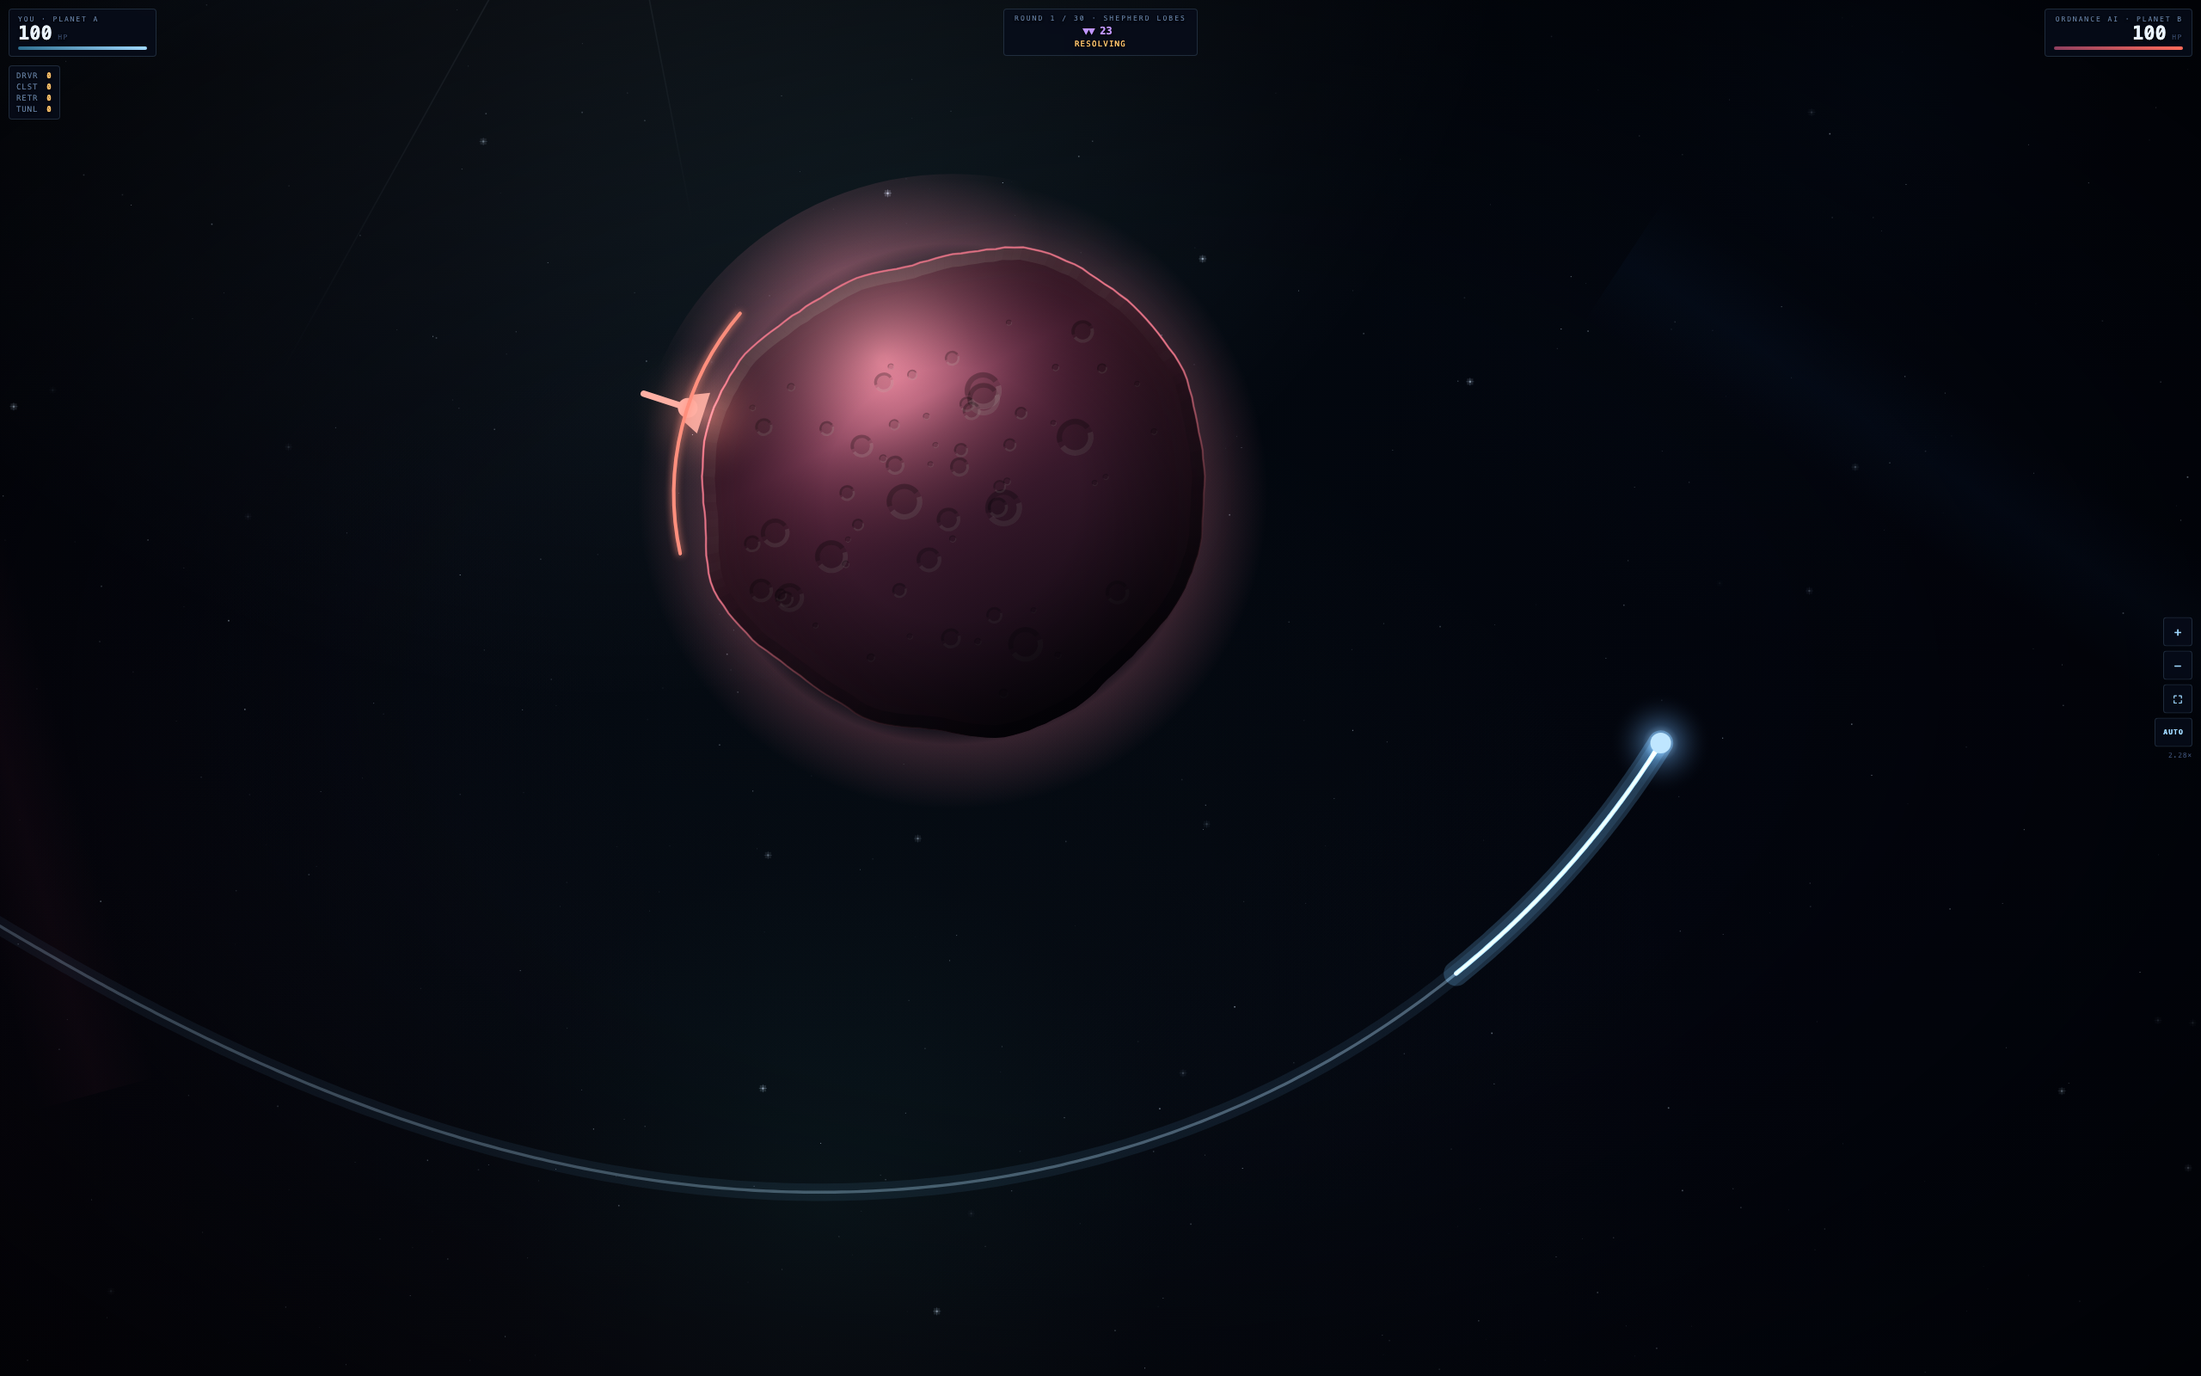
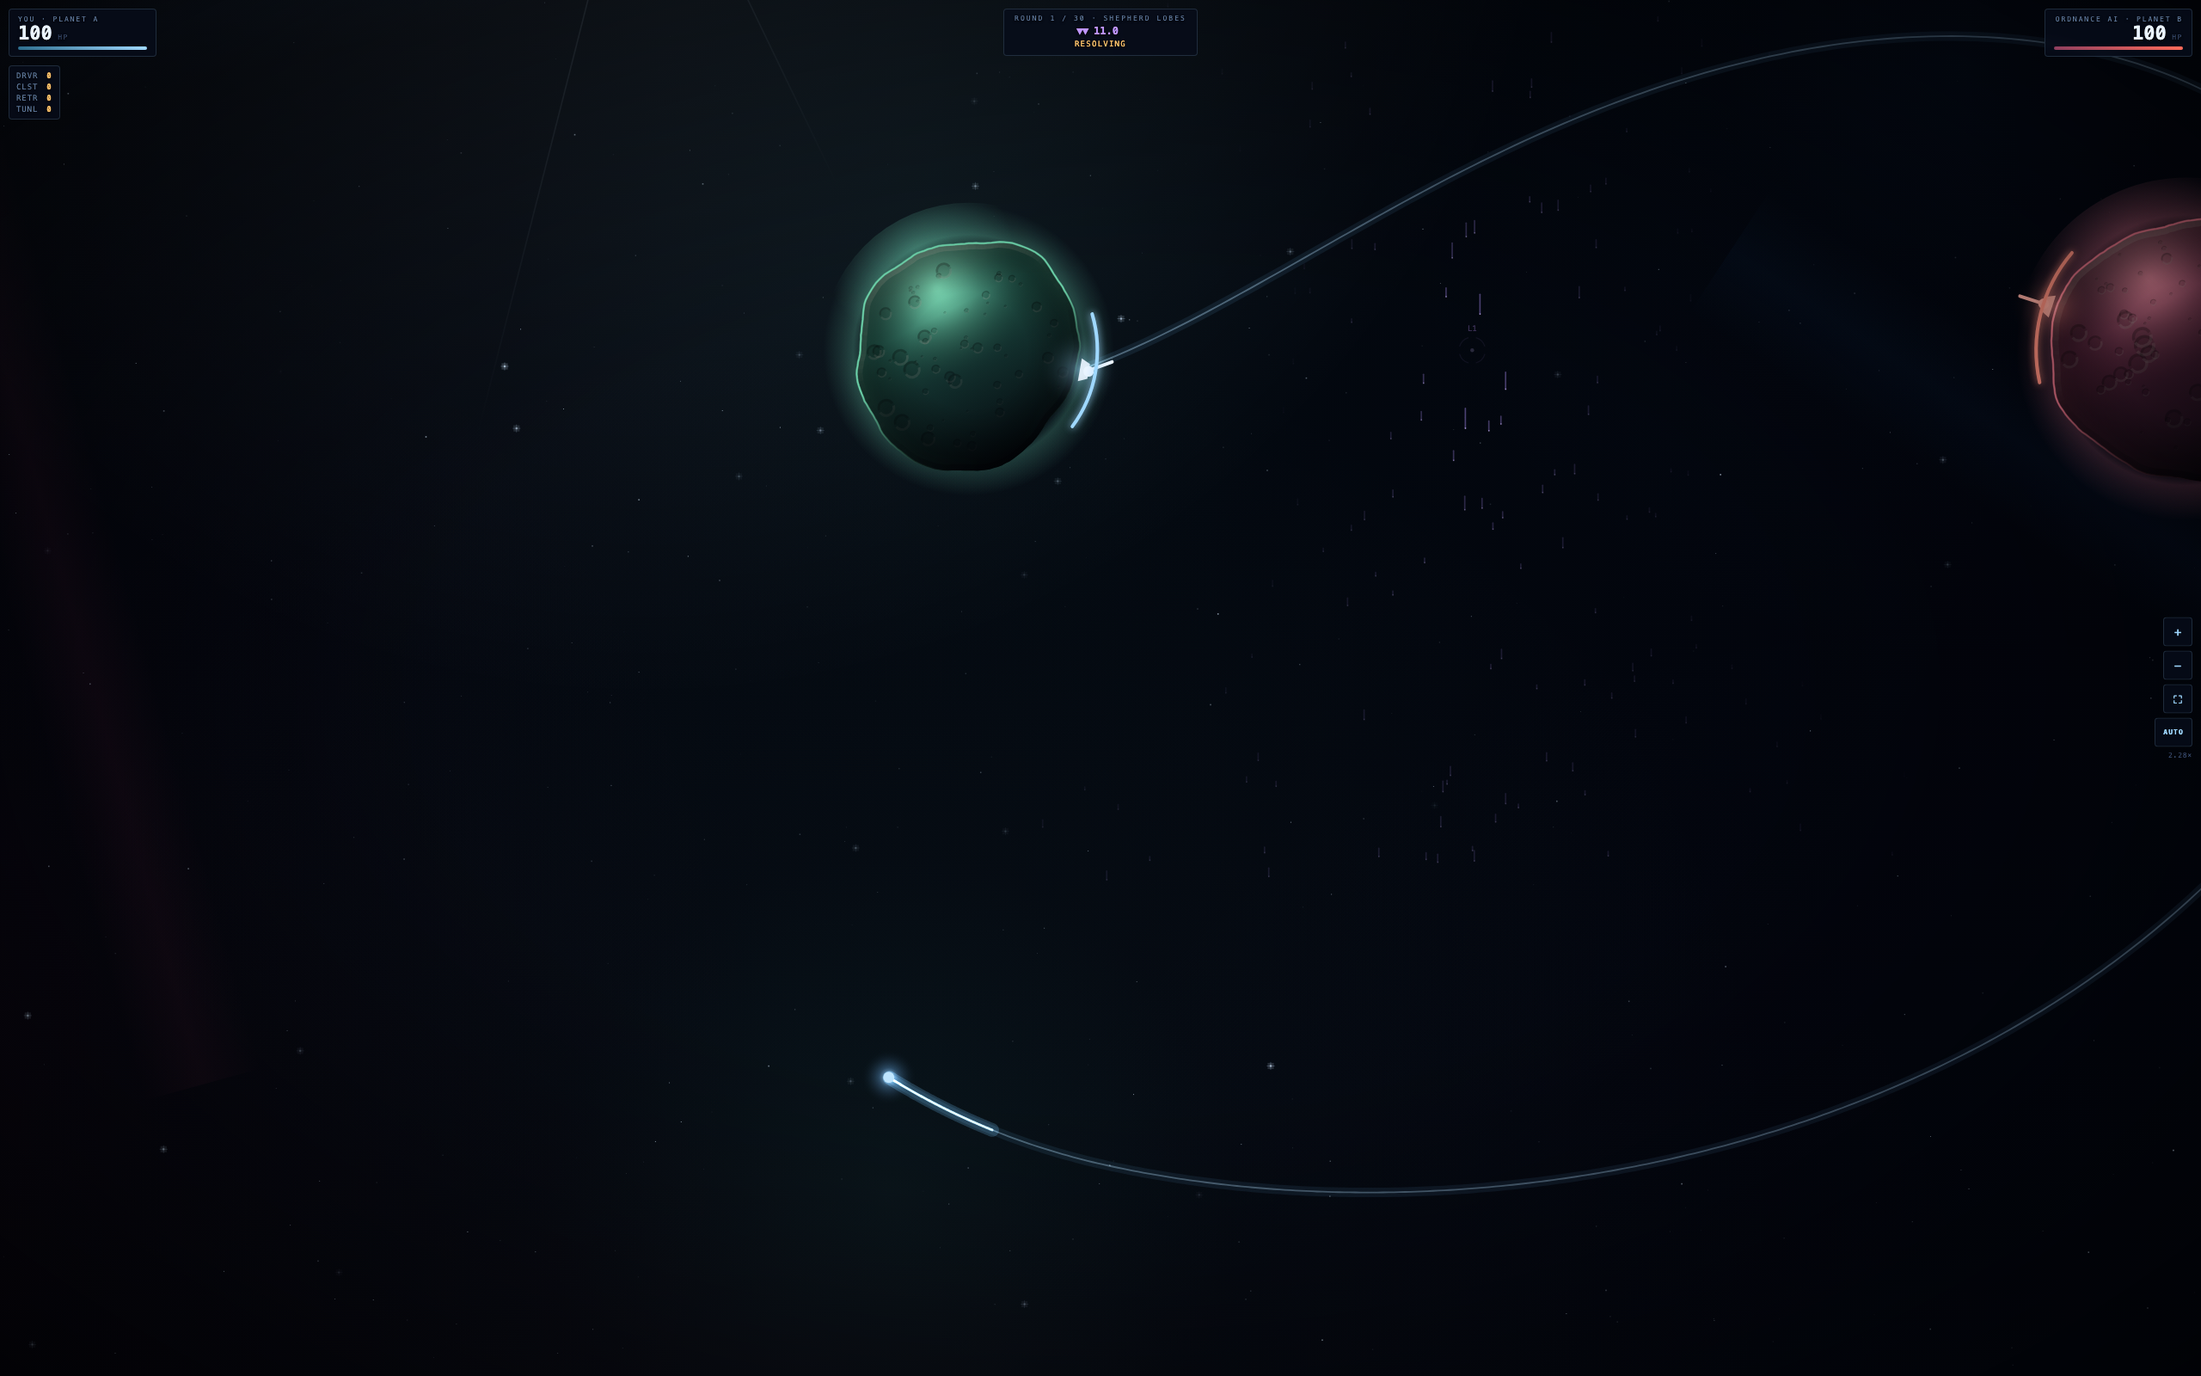
ROCHE: the physics now tell the truth. Three lies removed after playtest feedback that the physics felt wrong. (1) The per-weapon gravity multiplier is gone — every shell now falls identically, as vacuum demands; weight moved into the gun, where it belongs physically: a fixed launcher impulse gives 

diff --git a/games/roche.html b/games/roche.html
@@ -356,21 +356,34 @@ function mix(a,b){return fnv(String(a>>>0)+':'+String(b>>>0));}
 
 /* ============================================================ 1. constants */
 var NST=180;                       /* radial terrain stations per planet      */
-var GK=260;                        /* surface gravity per unit mass           */
-var DT=1/240, MAXT=40, MOVE_T=0.6; /* fixed step, shell cap, move window      */
-var WIND_MAX=30, WIND_G_REF=10;    /* ion wind: bites where gravity let go    */
+/* The whole sim runs on a contracted clock: k=1.35. Accelerations carry k^2
+   and launch speeds carry k, which leaves every trajectory's SHAPE identical
+   and makes the flights 26% shorter. Nothing else in the model knows. */
+var TK=1.35;
+var GK=474;                        /* surface gravity per unit mass (260*k^2) */
+var DT=1/240, MAXT=60, MOVE_T=0.45;/* fixed step, shell cap, move window.
+   The cap is generous on purpose: an orbit that means to come down needs two
+   or three revolutions for A's pull to precess its periapsis into B's rock.
+   Direct shots are unaffected - they end when they hit. */
+var WIND_MAX=14.6, WIND_G_REF=5.5; /* ion wind: only bites at the L1 saddle   */
+var WIND_DV=68;                    /* per-shell delta-v budget: it perturbs a
+                                      shot, it can never reroute one          */
 var MAX_HP=100, MAX_ROUNDS=30, MOVE_MAX=3;
 var SLOPE_DEG=65;
 var TANK_R=15, TANK_H=9, SHELL_R=5, KESSLER_R=22;
 var DIG_MAX=64;                    /* deepest a crater can cut, from base     */
 var SAMPLE=5;                      /* trajectory sample stride                */
 
+/* Everything falls the same - the gun is what differs. The launcher delivers a
+   fixed impulse, so a heavy shell leaves the muzzle slower for the same power
+   (sm) and is pushed around less by the plasma wind (wm). No shell has its own
+   private gravity. */
 var WEAPONS={
-  slug:    {slug:'slug',    name:'SLUG',        ab:'SLUG', dmg:26, r:58, gm:1.00, wm:1.00, inf:true},
-  driver:  {slug:'driver',  name:'MASS DRIVER', ab:'DRVR', dmg:46, r:84, gm:1.28, wm:0.26},
-  cluster: {slug:'cluster', name:'CLUSTER',     ab:'CLST', dmg:13, r:44, gm:1.00, wm:1.25, split:5},
-  retro:   {slug:'retro',   name:'RETRO',       ab:'RETR', dmg:32, r:60, gm:1.00, wm:0.80, retro:true},
-  tunneler:{slug:'tunneler',name:'TUNNELER',    ab:'TUNL', dmg:32, r:52, gm:1.06, wm:0.75, drill:56}
+  slug:    {slug:'slug',    name:'SLUG',        ab:'SLUG', dmg:26, r:58, sm:1.00, wm:1.00, inf:true},
+  driver:  {slug:'driver',  name:'MASS DRIVER', ab:'DRVR', dmg:54, r:90, sm:0.84, wm:0.26},
+  cluster: {slug:'cluster', name:'CLUSTER',     ab:'CLST', dmg:14, r:44, sm:1.05, wm:1.25, split:5},
+  retro:   {slug:'retro',   name:'RETRO',       ab:'RETR', dmg:32, r:60, sm:1.00, wm:0.80, retro:true},
+  tunneler:{slug:'tunneler',name:'TUNNELER',    ab:'TUNL', dmg:34, r:54, sm:0.93, wm:0.75, drill:56}
 };
 var WORDER=['slug','driver','cluster','retro','tunneler'];
 var DROPPABLE=['driver','cluster','retro','tunneler'];
@@ -520,7 +533,8 @@ function depthIn(w,p,x,y){
   if(d>planetR(map,p)*1.35)return -1e9;
   return radAtAngle(w,p,Math.atan2(dy,dx))-d;
 }
-function powerToSpeed(p){return 95+p*4.55;}
+function powerToSpeed(p){return 128+p*6.14;}      /* (95+p*4.55)*k */
+function powerOfSpeed(v){return (v-128)/6.14;}
 
 /* ============================================================ 4. world */
 function zeros(){var a=new Array(NST),i;for(i=0;i<NST;i++)a[i]=0;return a;}
@@ -625,8 +639,8 @@ function resolveRound(world,orders,roundSeed){
     if(ws!=='slug'&&!(w.tanks[seat].inv[ws]>0))ws='slug';
     if(ws!=='slug')w.tanks[seat].inv[ws]--;
     var ang=clamp(od.a,10,170), pw=clamp(od.p,15,100);
-    var dir=aimVec(w,seat,ang), sp=powerToSpeed(pw), p0=tpos(seat,0);
-    var sh={seat:seat,w:ws,root:true,
+    var dir=aimVec(w,seat,ang), sp=powerToSpeed(pw)*WEAPONS[ws].sm, p0=tpos(seat,0);
+    var sh={seat:seat,w:ws,root:true,dv:0,
       x:p0.x+dir.x*22,y:p0.y+dir.y*22,vx:dir.x*sp,vy:dir.y*sp,
       alive:true,crossed:false,dom0:dominant(map,p0.x,p0.y),drill:0,born:0,idx:shells.length,
       wrap:0,lastA:0,maxRev:0,wrapO:0,lastO:0,maxRevO:0,back:0,
@@ -743,14 +757,18 @@ function resolveRound(world,orders,roundSeed){
       if(!s.alive)continue;
       var WD=WEAPONS[s.w];
       if(s.drill>0){
-        var sp2=hyp(s.vx,s.vy)||1, ux=s.vx/sp2, uy=s.vy/sp2, adv=190*DT;
+        var sp2=hyp(s.vx,s.vy)||1, ux=s.vx/sp2, uy=s.vy/sp2, adv=256*DT;
         s.x+=ux*adv; s.y+=uy*adv; s.drill-=adv;
         if(s.drill<=0){detonate(s,s.x,s.y,-1,t,'drill');continue;}
       }else{
         accAt(map,s.x,s.y,acc);
-        var wf=windFactor(map,s.x,s.y)*WD.wm;
-        s.vx+=acc.x*WD.gm*DT;
-        s.vy+=(acc.y*WD.gm+wind*wf)*DT;
+        var wa=0;
+        if(s.dv<WIND_DV){
+          wa=wind*windFactor(map,s.x,s.y)*WD.wm;
+          s.dv+=Math.abs(wa)*DT;
+        }
+        s.vx+=acc.x*DT;
+        s.vy+=(acc.y+wa)*DT;
         s.x+=s.vx*DT; s.y+=s.vy*DT;
       }
       if(step%SAMPLE===0)s.pts.push(s.x,s.y);
@@ -778,8 +796,10 @@ function resolveRound(world,orders,roundSeed){
           var vn=hyp(s.vx,s.vy)||1, px2=-s.vy/vn, py2=s.vx/vn;
           for(j=0;j<WD.split;j++){
             var off=(j-(WD.split-1)/2);
-            var b={seat:s.seat,w:'cluster',root:false,x:s.x+px2*off*5,y:s.y+py2*off*5,
-                   vx:s.vx+px2*off*17,vy:s.vy+py2*off*17,alive:true,crossed:true,dom0:dm,drill:0,
+            /* the bus throws them apart mechanically - it no longer relies on
+               a wind strong enough to bend a trajectory */
+            var b={seat:s.seat,w:'cluster',root:false,dv:s.dv,x:s.x+px2*off*6,y:s.y+py2*off*6,
+                   vx:s.vx+px2*off*30,vy:s.vy+py2*off*30,alive:true,crossed:true,dom0:dm,drill:0,
                    born:t,idx:tl.shells.length,wrap:s.wrap,lastA:s.lastA,maxRev:s.maxRev,
                    wrapO:s.wrapO,lastO:s.lastO,maxRevO:s.maxRevO,back:s.back,
                    pts:[s.x+px2*off*5,s.y+py2*off*5]};
@@ -890,7 +910,7 @@ function resolveRound(world,orders,roundSeed){
   else if(h1<=0){over=true;winner=0;}
   else if(h0<=0){over=true;winner=1;}
   else if(w.round>MAX_ROUNDS){over=true;if(h0>h1)winner=0;else if(h1>h0)winner=1;else draw=true;}
-  tl.dur=t+1.4;
+  tl.dur=t+1.0;
   return {world:w,tl:tl,stats:stats,over:over,winner:winner,draw:draw};
 }
 
@@ -899,8 +919,8 @@ function resolveRound(world,orders,roundSeed){
    SAME field equations the resolver uses. No closed-form shortcut exists here. */
 function probeShot(w,seat,wep,ang,pow,dt,wind,maxT){
   var map=MAPS[w.mapId], WD=WEAPONS[wep]||WEAPONS.slug;
-  var dir=aimVec(w,seat,ang), sp=powerToSpeed(pow), o=tankPt(w,seat);
-  var x=o.x+dir.x*22, y=o.y+dir.y*22, vx=dir.x*sp, vy=dir.y*sp;
+  var dir=aimVec(w,seat,ang), sp=powerToSpeed(pow)*WD.sm, o=tankPt(w,seat);
+  var x=o.x+dir.x*22, y=o.y+dir.y*22, vx=dir.x*sp, vy=dir.y*sp, dv=0;
   var tp=tankPt(w,1-seat), tx=tp.x, ty=tp.y;
   var ecx=planetCX(map,1-seat), ocx=planetCX(map,seat);
   var t=0, closest=1e9, acc={x:0,y:0}, dom0=dominant(map,x,y), crossed=false;
@@ -909,9 +929,10 @@ function probeShot(w,seat,wep,ang,pow,dt,wind,maxT){
   var bound=map.dist*1.9, MT=maxT||MAXT;
   while(t<MT){
     accAt(map,x,y,acc);
-    var wf=windFactor(map,x,y)*WD.wm;
-    vx+=acc.x*WD.gm*dt;
-    vy+=(acc.y*WD.gm+wind*wf)*dt;
+    var wa=0;
+    if(dv<WIND_DV){ wa=wind*windFactor(map,x,y)*WD.wm; dv+=Math.abs(wa)*dt; }
+    vx+=acc.x*dt;
+    vy+=(acc.y+wa)*dt;
     x+=vx*dt; y+=vy*dt; t+=dt;
     var na=Math.atan2(y,x-ecx);
     wrap+=angNorm(na-lastA); lastA=na;
@@ -949,12 +970,12 @@ function solveShot(w,seat,wep,wind){
   var bestA=90,bestP=70,bestC=1e9,a,p,r,c;
   for(a=14;a<=166;a+=4){
     for(p=20;p<=100;p+=4){
-      r=probeShot(w,seat,wep,a,p,1/50,wind,30);
+      r=probeShot(w,seat,wep,a,p,1/50,wind,24);
       c=candCost(w,seat,r);
       if(c<bestC){bestC=c;bestA=a;bestP=p;}
     }
   }
-  var passes=[{d:3,st:1,dt:1/120,mt:34},{d:1,st:0.34,dt:1/240,mt:MAXT}];
+  var passes=[{d:3,st:1,dt:1/120,mt:28},{d:1,st:0.34,dt:1/240,mt:32}];
   for(var q=0;q<passes.length;q++){
     var P=passes[q],cA=bestA,cP=bestP;
     bestC=1e9;
@@ -1111,15 +1132,20 @@ function cpuOrder(w,seat,cpu,wind){
     if(orb&&orb.closest<Math.max(150,sol.cost*1.4)){
       var goal=seat===0?'B':'A';
       var d=orbDescend(w,seat,wind,orb.a,orb.p,goal);
-      if(d&&d.r.fate===goal&&isOrbital(d.r)&&d.r.closest<170){
+      /* only worth the flight if it actually threatens - a 60-second orbit
+         that lands two craters away teaches nothing */
+      if(d&&d.r.fate===goal&&isOrbital(d.r)&&d.r.closest<60){
         wep='slug'; sol={a:Math.round(d.a*10)/10,p:Math.round(d.p*10)/10,cost:d.r.closest};
         orbTaken=true; cpu.orbital++;
       }
     }
   }
 
-  var err=cpu.err*(orbTaken?0.28:1);
-  if(cpu.enemyStill>=2)err*=0.6;
+  /* a walked direct shot carries the CPU's usual error; a computed orbit does
+     not - the trajectory is chaotic, so a degree of jitter would simply throw
+     it away, and a miss by two thousand units teaches the player nothing */
+  var err=cpu.err*(orbTaken?0.06:1);
+  if(cpu.enemyStill>=2)err*=0.5;
   var a=sol.a+(rng()*2-1)*err;
   var p=sol.p+(rng()*2-1)*err*0.45;
   cpu.firedLast=true;
@@ -1435,6 +1461,7 @@ function hexRGB(h){
   return ((n>>16)&255)+','+((n>>8)&255)+','+(n&255);
 }
 var stars=[],neb=[],fils=[],speck=[[],[]],parts=[],rings=[],floaters=[],glows=[],streaks=[],flares=[];
+var motes=[],moteBox={x:0,w:1,h:1};
 function makeSky(seed,mapId){
   var map=MAPS[mapId], r=mulberry32((seed>>>0)^0x51F0),i,p;
   stars=[];
@@ -1454,6 +1481,14 @@ function makeSky(seed,mapId){
     fils.push({x:r()*1.4-0.2,y:r()*1.4-0.2,r:r()*Math.PI,l:0.5+r()*0.9,t:0.012+r()*0.03,
       c:c2[0],a:c2[1]*(0.30+r()*0.35)});
   }
+  /* the ion wind made visible: plasma motes drifting only where windFactor is
+     actually significant, i.e. the L1 saddle. Curvature gets a visible cause. */
+  var map2=MAPS[mapId], lx=l1x(map2);
+  moteBox={x:lx,w:map2.dist*0.36,h:map2.dist*0.44};
+  motes=[];
+  for(i=0;i<230;i++)
+    motes.push({x:lx+(r()*2-1)*moteBox.w,y:(r()*2-1)*moteBox.h,
+                s:0.45+r()*0.95,ph:r()*TAU,f:0});
   for(p=0;p<2;p++){
     speck[p]=[];
     var n=Math.round(52+r()*26);
@@ -1813,8 +1848,40 @@ function drawPods(){
     }
   }
 }
+function stepMotes(dt){
+  if(!G.world||!motes.length)return;
+  var map=MAPS[G.world.mapId], wv=G.tl?G.tl.wind:G.wind, i;
+  for(i=0;i<motes.length;i++){
+    var mo=motes[i];
+    mo.f=windFactor(map,mo.x,mo.y);
+    mo.y+=wv*mo.f*6*mo.s*dt;
+    mo.x+=Math.sin(G.fxT*0.5+mo.ph)*7*mo.f*dt;
+    if(mo.y>moteBox.h)mo.y-=moteBox.h*2;
+    else if(mo.y<-moteBox.h)mo.y+=moteBox.h*2;
+  }
+}
+function drawMotes(){
+  if(!G.world||!motes.length)return;
+  var wv=G.tl?G.tl.wind:G.wind, dir=wv<0?-1:1, i;
+  if(Math.abs(wv)<0.4)return;
+  X.save(); X.globalCompositeOperation='lighter'; X.lineCap='round';
+  for(i=0;i<motes.length;i++){
+    var mo=motes[i], a=clamp((mo.f-0.11)*1.7,0,1);
+    if(a<=0.02)continue;
+    var px=wx(mo.x),py=wy(mo.y);
+    if(px<-40||px>VW+40||py<-40||py>VH+40)continue;
+    var L=Math.max(2,Math.abs(wv)*mo.f*mo.s*0.9*cam.s*6);
+    X.strokeStyle='rgba(186,150,255,'+(a*0.48).toFixed(3)+')';
+    X.lineWidth=Math.max(0.9,1.5*cam.s*2);
+    X.beginPath(); X.moveTo(px,py); X.lineTo(px,py+dir*L); X.stroke();
+    X.fillStyle='rgba(226,206,255,'+(a*0.55).toFixed(3)+')';
+    X.fillRect(px-0.7,py+dir*L-0.7,1.6,1.6);
+  }
+  X.restore();
+}
 function stepFx(dt){
   var i,p,map=G.world?MAPS[G.world.mapId]:null,acc={x:0,y:0};
+  stepMotes(dt);
   for(i=parts.length-1;i>=0;i--){
     p=parts[i]; p.l-=dt;
     if(p.l<=0){parts.splice(i,1);continue;}
@@ -1883,14 +1950,14 @@ function drawFx(){
 function drawPredictor(){
   if(G.phase!=='order'||G.orderKind!=='fire'||!G.world)return;
   var w=G.world, seat=G.mySeat, map=MAPS[w.mapId];
-  var WD=WEAPONS[G.wep], dir=aimVec(w,seat,G.ang), sp=powerToSpeed(G.pow);
+  var WD=WEAPONS[G.wep], dir=aimVec(w,seat,G.ang), sp=powerToSpeed(G.pow)*WD.sm;
   var o=tankPt(w,seat);
   var x=o.x+dir.x*22,y=o.y+dir.y*22,vx=dir.x*sp,vy=dir.y*sp,dt=1/90,acc={x:0,y:0};
   X.beginPath(); X.moveTo(wx(x),wy(y));
   for(var i=0;i<130;i++){
     accAt(map,x,y,acc);
-    var wf=windFactor(map,x,y)*WD.wm;
-    vx+=acc.x*WD.gm*dt; vy+=(acc.y*WD.gm+G.wind*wf)*dt;
+    var wa=G.wind*windFactor(map,x,y)*WD.wm;
+    vx+=acc.x*dt; vy+=(acc.y+wa)*dt;
     x+=vx*dt; y+=vy*dt;
     X.lineTo(wx(x),wy(y));
   }
@@ -1995,8 +2062,8 @@ function updateHUD(){
   $('#youBar').style.width=(h0/MAX_HP*100)+'%'; $('#foeBar').style.width=(h1/MAX_HP*100)+'%';
   $('#roundLbl').textContent=compact?('R '+w.round+'/'+MAX_ROUNDS+' · '+map.name):('ROUND '+w.round+' / '+MAX_ROUNDS+' · '+map.name);
   var wv=G.wind;
-  $('#windArrow').textContent=Math.abs(wv)<2?'·':(wv<0?(Math.abs(wv)>16?'▲▲':'▲'):(wv>16?'▼▼':'▼'));
-  $('#windVal').textContent=Math.abs(wv).toFixed(0);
+  $('#windArrow').textContent=Math.abs(wv)<0.8?'·':(wv<0?(Math.abs(wv)>8?'▲▲':'▲'):(wv>8?'▼▼':'▼'));
+  $('#windVal').textContent=Math.abs(wv).toFixed(1);
   $('#spinVal').textContent=map.spin[me]?('· SPIN '+(map.spin[me]/10).toFixed(1)+'°/R'):'';
   var inv=w.tanks[me].inv,html='',n,i;
   for(i=1;i<WORDER.length;i++){
@@ -2122,7 +2189,20 @@ function flashScreen(a){
 }
 function pace(){
   var tl=G.tl; if(!tl)return 1;
-  var any=false,minAlt=1e9,i;
+  var i;
+  /* The resolver already stamped every impact with its sim time, so the clock
+     does not have to guess from altitude - which is useless for an orbiting
+     shell that is permanently "near" a surface. Slow only for the seconds that
+     actually matter, and run hard everywhere else. */
+  var nx=1e9;
+  for(i=G.ev.b;i<tl.booms.length;i++){ if(tl.booms[i].t>=G.playT){nx=tl.booms[i].t-G.playT;break;} }
+  for(i=G.ev.s;i<tl.splits.length;i++){ if(tl.splits[i].t>=G.playT){nx=Math.min(nx,tl.splits[i].t-G.playT);break;} }
+  for(i=G.ev.f;i<tl.fizzles.length;i++){ if(tl.fizzles[i].t>=G.playT){nx=Math.min(nx,tl.fizzles[i].t-G.playT);break;} }
+  if(nx<0.55)return 0.55;                       /* terminal descent, slow-mo  */
+  if(nx<1.4)return 1.1;                         /* the run-in                 */
+  var since=G.lastEvent?(G.playT-G.lastEvent.t):1e9;
+  if(since<0.6)return 0.9;                      /* let the blast breathe      */
+  var any=false,minAlt=1e9;
   for(i=0;i<tl.shells.length;i++){
     var q=shellAt(tl.shells[i],G.playT);
     if(!q||q.done)continue;
@@ -2130,10 +2210,9 @@ function pace(){
     var a=altitudeAt(G.world,q.x,q.y);
     if(a<minAlt)minAlt=a;
   }
-  if(!any)return 1.7;
-  if(minAlt<150)return 0.55;
-  if(minAlt<430)return 1;
-  return clamp(1+(minAlt-430)/900*4.6,1,5.6);
+  if(!any)return 3;
+  if(minAlt<260)return 2.6;                     /* low pass: still readable   */
+  return clamp(3.4+(minAlt-260)/620*2.6,3.4,6);
 }
 function stepPlayback(dt){
   if(G.phase!=='play'||!G.tl)return;
@@ -2287,6 +2366,7 @@ function render(now){
   stepCam(dt);
   touchHint=(G.phase==='order')?1:0;
   drawBackdrop(now);
+  drawMotes();
   drawL1(now);
   drawGhostTrails();
   if(G.phase==='play')drawLiveTrails(G.playT);
@@ -2835,7 +2915,9 @@ window.__roche={
   windForSeed:windForSeed,roundSeedOf:roundSeedOf,
   makeCpu:makeCpu,cpuOrder:cpuOrder,cpuLearn:cpuLearn,
   l1x:l1x,accAt:accAt,planetR:planetR,planetCX:planetCX,planetGM:planetGM,
-  escSpeed:escSpeed,powerToSpeed:powerToSpeed,radOf:radOf,tankPt:tankPt,
+  escSpeed:escSpeed,powerToSpeed:powerToSpeed,powerOfSpeed:powerOfSpeed,
+  TK:TK,WIND_MAX:WIND_MAX,WIND_G_REF:WIND_G_REF,WIND_DV:WIND_DV,windFactor:windFactor,
+  radOf:radOf,tankPt:tankPt,
   getState:function(){return {mode:G.mode,phase:G.phase,round:G.world?G.world.round:0,
     hp:G.world?[G.world.tanks[0].hp,G.world.tanks[1].hp]:null,paused:G.paused,seat:G.mySeat,
     wind:G.wind,ach:G.ach.slice(),ghost:G.ghost?G.ghost.length:0,pace:G.paceCur,
